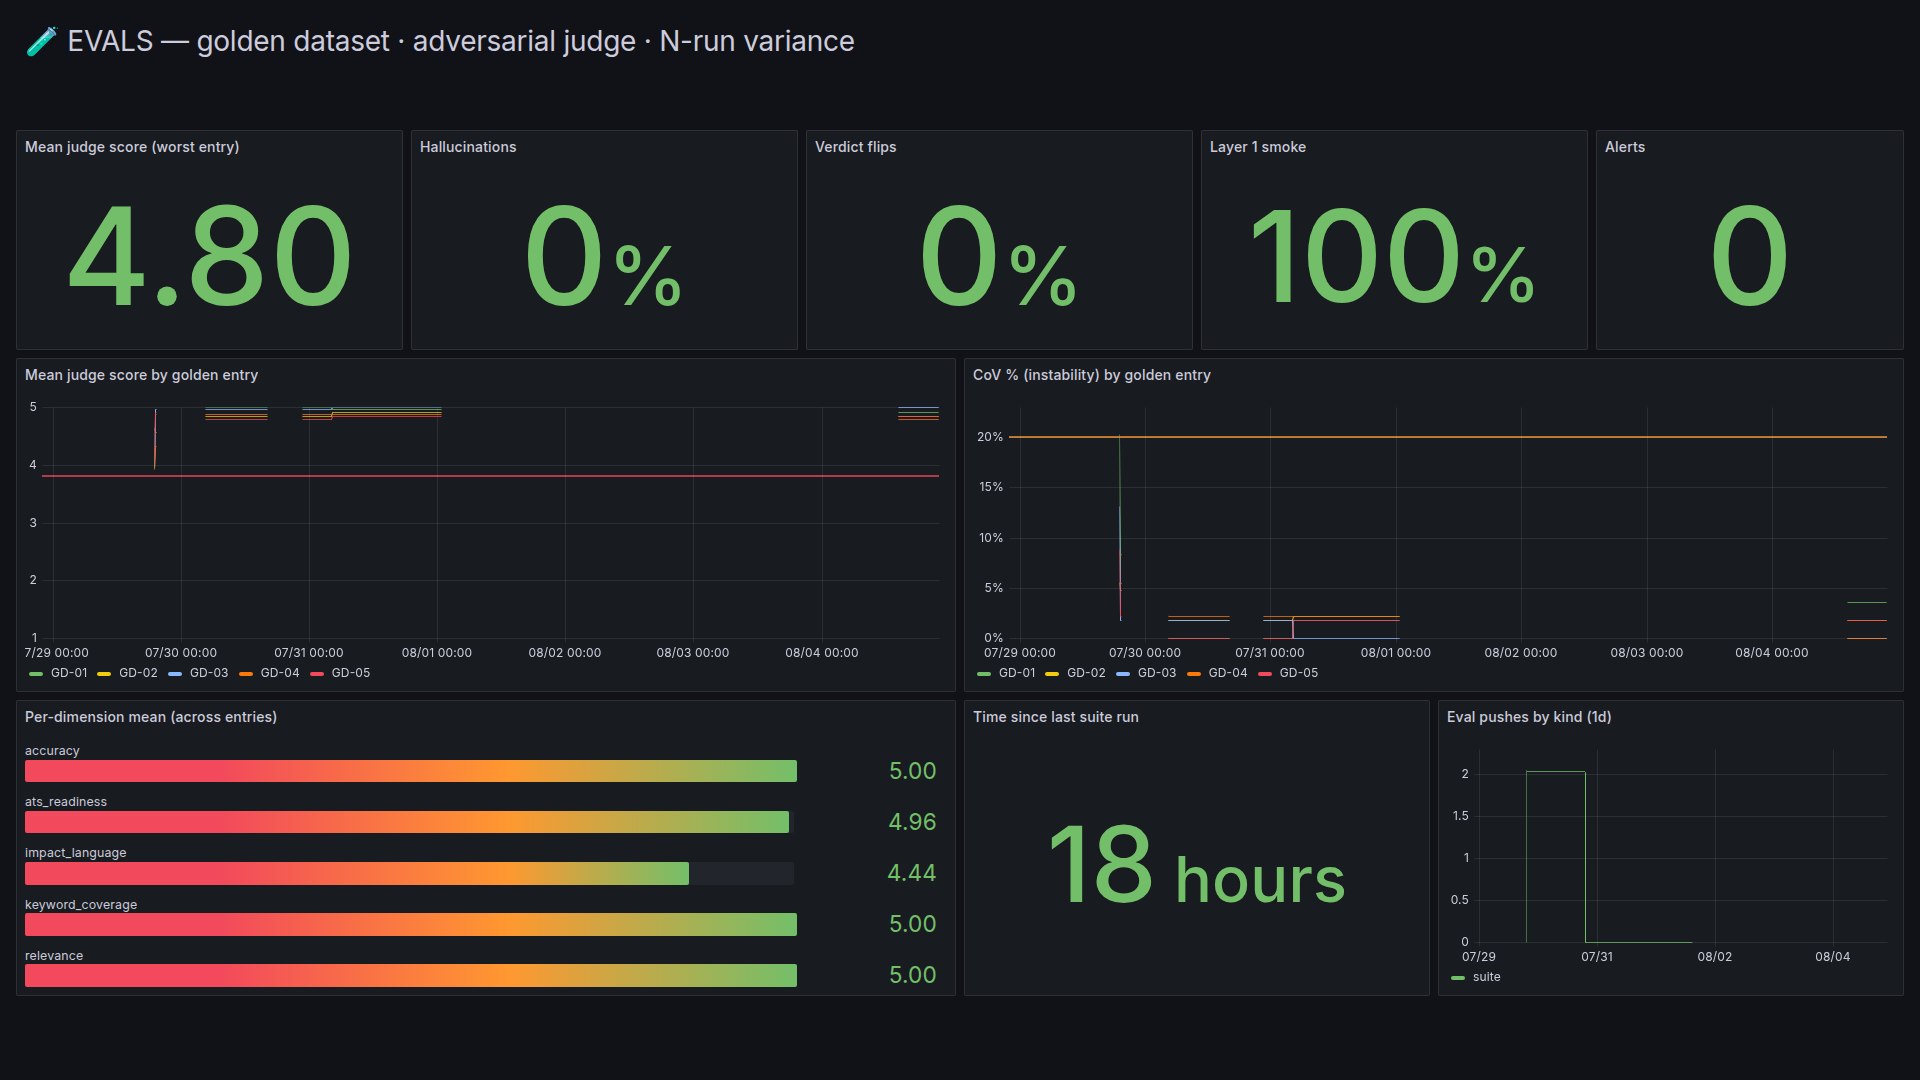
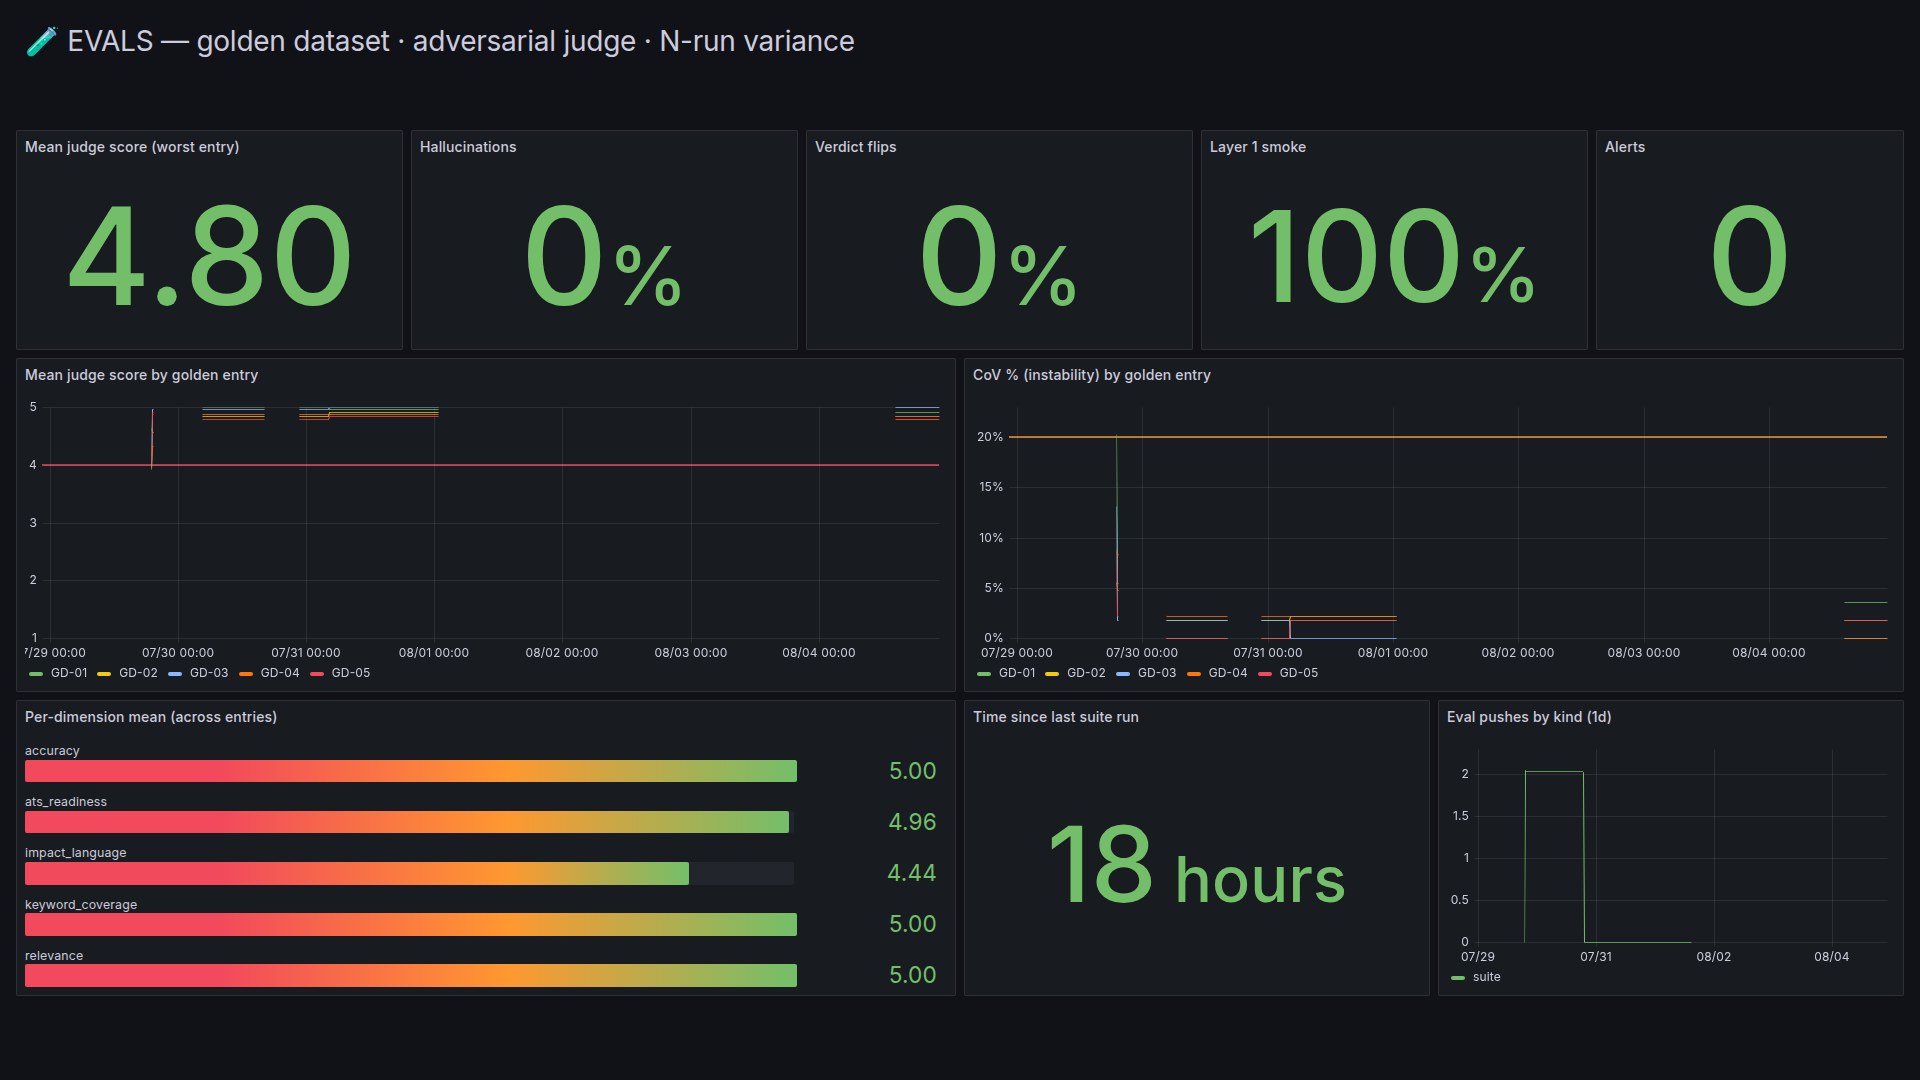
docs: pre-main refresh — 96-action tool surface, judge calibration in README, fresh evals kiosk shot
- README: tool surface 95→96, add missing certification row (8 actions);
  eval-framework paragraph now covers the planted-error fixture corpus,
  blind human-label calibration, judge/provenance cross-check, and the
  judge provider split; Unreleased bullet reflects tonight's merged work.
- docs/tools.md: certification 7→8 actions, add mark_submitted row
  (params verified against tools/consolidated.py facade signature);
  title count 95→96.
- CHANGELOG: Unreleased entries for the fixture corpus + blind-label
  calibration (llama3.1:8b + gpt-4.1-mini tables, scale finding stated
  as measured) and the thin non-job page scraper guard (#200/#201).
- Wallboard: kiosk-evals.png re-shot against the reprovisioned dashboard
  (post-#202 panels, fresh suite values).

diff --git a/CHANGELOG.md b/CHANGELOG.md
@@ -18,11 +18,13 @@ Versions through 1.4.0 predate this note; their section headings vary slightly.
 - **Deleted personal stories came back** -- `delete_personal_story` dropped the entry from the payload, but the save handler only ever inserted/updated, so the row survived in SQLite and reappeared on the next read (and, once these tables sync, would have been re-pushed to every peer forever). Stories and star stories now prune rows absent from the payload, matching `people`.
 - **Accepting a cover-letter edit now regenerates the canonical PDF** -- accept-cover-letter-edit rewrote the .txt (with a .bak backup) but never re-exported, leaving the document's PDF stale; the only fresh PDF was the review-phase preview of the .tmp draft. Accept now re-exports from the accepted text using the job's saved template/style (HTML or owner-only LaTeX, gated before any mutation), surfaces the result + a link in the done view, and reports export failures as warnings without failing the accept. The resume edit dialog was not affected (its one-shot flow already exported the edited copy).
 - **Wallboard relay predated the eval framework** -- the metrics-relay allowlist would never have forwarded `eval_*` gauges to the Pi; the relay also took the first responding port only. It now relays the eval families and merges per-family across ports, with `JOBCONTEXT_EXTRA_METRICS_PORTS` for servers the process scan can't see.
+- **Thin non-job pages no longer queue as jobs** -- a jina-cached snapshot of a placeholder page (320 chars) sailed through `scrape_job_url` and burned an assessment on "Example Domain". The scraper now rejects bodies under 1,500 chars that contain no job-posting vocabulary (responsibilities, qualifications, salary, apply, etc.); genuine short postings survive because they carry the vocabulary, and long pages are never gated. Regression tests cover the qa snapshot, a short genuine posting, and a long non-job page.
 
 ### Features
 
 - **Eval harness hardening — the gate asserts what tools actually print, the judge grades against the stated rubric, and the two hallucination checks finally meet** -- follow-through on the 2026-08-04 audit (`docs/evals-audit-2026-08-04.md`). Layer 1 smoke markers are now code-emitted literals covering every reachable tool state (empty, populated, filtered-empty) instead of length floors — an intermediate commit that asserted vocabulary the tools never print broke the gate to 50% and was caught by running the gate itself, which is why a replay test now re-checks every marker against recorded real responses in pytest. The judge prompt carries the Layer 2 rubric anchors and the explicit pass criterion; the verdict is derived in code from the parsed scores via `passes()`, with the model's own verdict kept leniently as `model_verdict` (calibration data, never a gate). Alert thresholds are sourced from the rubric so they cannot drift from the verdict: mean alert 3.8 → 4.0 and a new per-dimension floor alert (accuracy=2 with everything else 5 — a fluent resume that fabricates — previously produced a 4.4 mean, a green wallboard, and zero alerts). **Operator-visible: entries scoring 3.8–4.0 that previously showed amber now fire red — intended, not a regression.** Each eval run now joins the judge's hallucination list against the provenance gate's `generation_provenance` row (numeric claims only — the single territory both cover), bucketed as raw counts into both_flagged/both_clean/judge_only/provenance_only/no_record, where `no_record` means the comparison never happened (row missing or freshness unprovable behind a pre/post row-id fence) — deliberately not "both clean". The judge can run on a separate provider/model (`judge_provider`/`judge_model`, `JUDGE_LLM_PROVIDER`/`JUDGE_LLM_MODEL`, honored on every provider branch; results stamp the model that actually ran) — **configured but not yet enabled in prod, so the judge remains the generator's model until a judge provider is set**. The CLI judge path's 6K-char master truncation (the defect the first calibration run diagnosed, left in the CLI) now routes through the shared cap. Wallboard: provenance-agreement panels (no_record red at ≥1, no `or vector(0)` so a dead feed reads "No data") and threshold lines moved to match where alerts fire, on both the AKS and Pi dashboards.
 - **Provenance violations modal — every violation visible and actionable at generation time** -- the one-line verdict capped its list at six violations with an ellipsis, and none of them could be acted on; a local-LLM run that produced four violations showed a summary and stopped there. Now a generation that fails the truth gate auto-opens a modal listing **every** violation uncapped, read from the audit row the gate already persists (new `lib/provenance.latest_run()` + `GET /dashboard/pipeline/provenance/latest`, company/role-filtered so concurrent generations for other jobs can't cross-contaminate). Each violation carries a **Fix** button and the batch a **Fix all** — both pre-fill the existing AI-edit dialog with a structured instruction (rephrase from source material only, or remove; never invent replacements), and because the edit pipeline re-runs the gate, the fix loop ends in a fresh verdict. The result banner gains a **View violations** button to reopen the modal after dismissal.
+- **The judge is measured, not trusted — planted-error fixture corpus and blind human-label calibration** -- the remaining audit repairs. `evals/fixtures/` is a nine-variant planted-error corpus on a fully synthetic master resume (one clean control, one surgical corruption per variant, each documented in the manifest); `python -m evals fixtures -n N` judges each fixture directly against the synthetic master and reports per-class catch rates, with any flag on the clean control counted as a false positive. Blind human labels on the golden entries (scored before seeing judge output) calibrate the judge per dimension; both the local judge (`llama3.1:8b`) and the production-candidate judge (`gpt-4.1-mini`) have recorded tables in `docs/evals.md`. Headline finding, stated as measured: the local judge's contradiction-catching does not survive production-scale documents (fixtures 5/5, real 8–9KB references 0/21 — fixture catch rates are ceiling numbers), while gpt-4.1-mini made the first cross-document numeric-conflict catch at production scale and scores near-deterministically. That earns gpt-4.1-mini consideration as the judge-split target; it is not a conclusion that accuracy scoring is solved.
 - **Wallboard: two-screen rotation — local LLM + AKS production** -- the Pi kiosk playlist drops the Pi-health pages (still provisioned, just out of rotation) in favor of exactly two screens: a new `kiosk-ollama` dashboard (Ollama status and model-in-VRAM, GPU utilization/VRAM/temperature, the desktop app's relayed `llm_*` call/token/latency series, and the provenance gate's pass rate, runs, and violations) alternating with the existing AKS production view. Ollama exposes no native `/metrics` and the desktop sidecar binds 127.0.0.1 on an OS-assigned port, so a new workstation exporter (`scripts/ollama-exporter.py`, user systemd unit on :9105) polls `/api/ps` + `nvidia-smi` and relays the sidecar's series, rediscovering its port per scrape and caching the last good relay — the sidecar's `/metrics` stalls while a generation blocks its event loop, exactly when the board matters. Metric paths ride the static direct-link IPs and the kiosk URL is now `localhost`, both immune to the DHCP-lease changes that stranded the kiosk before (2026-07-15); the AKS federation tunnel, found crash-looping on a dead bind address (16k restarts), is rebound and verified through a full Pi reboot.
 
 - **Follow-up queue sanity** -- the People follow-up queue was "status ∈ {drafted, sent, follow-up}, forever": a ghosted recruiter stayed a suggested follow-up for months. The queue now (1) times out threads untouched for `followup_timeout_days` (default 21) into a collapsed "Gone cold" bucket instead of the to-do list, (2) excludes closed-thread tags (`unresponsive`, `closed-loop`, `do-not-contact`, `dormant`, `archived`), and (3) supports per-contact dismissal (✕ on the card; `POST /dashboard/people/dismiss-followup`, restorable). Dismissals live in a per-user overlay (`lib/dismissals.py`, `dismissals.json`) because the queue is a derived view with no row to delete.

diff --git a/README.md b/README.md
@@ -156,7 +156,7 @@ Themes: **Navy** (default) · **Slate** · **Forest** · **Warm** · **Classic**
 
 ## The Tool Surface
 
-12 consolidated domain tools, 95 actions. Each tool takes an `action` parameter; its docstring documents every action's required and optional parameters. Full reference with per-action tables: **[docs/tools.md](docs/tools.md)**.
+12 consolidated domain tools, 96 actions. Each tool takes an `action` parameter; its docstring documents every action's required and optional parameters. Full reference with per-action tables: **[docs/tools.md](docs/tools.md)**.
 
 | Tool | Actions | Covers |
 |---|---|---|
@@ -170,6 +170,7 @@ Themes: **Navy** (default) · **Slate** · **Forest** · **Warm** · **Classic**
 | `wellbeing` | 7 | Mood/energy check-ins, Oura readiness, HBDI profile |
 | `brand` | 7 | LinkedIn post pipeline + metrics, GitHub/portfolio stats, skill scans |
 | `insights` | 7 | Daily/weekly digests, session context, rejection funnel, comp comparison |
+| `certification` | 8 | Weekly work-search certification reports, employer directory, portal-ready exports |
 | `workspace` | 2 | Workspace diagnosis and zero-manual-setup creation |
 
 A coverage test guarantees every capability of the historical 88-function surface is reachable through the facades; `JOBCONTEXT_LEGACY_TOOLS=1` restores the per-function surface if a client needs it.
@@ -215,7 +216,7 @@ Every tenant's data lives under `DATA_FOLDER/users/{oid}` with per-request conte
 
 **Provenance gate** — a deterministic truth check on every generated document: numeric claims (percentages, dollar amounts, multipliers, years) must trace to the master resume, stories, or JD, or the run is flagged — an LLM reviewer checks quality, this checks *truth*. Verdicts surface in the dashboard (violations modal) and Grafana; in-place master-resume edits are audit-logged so an agent can't legalize a fabricated claim by editing the source. Details: [docs/generation.md](docs/generation.md).
 
-**Eval framework** — three layers in [`evals/`](evals/): declarative tool evals through the exact MCP dispatch path (a <95% smoke pass rate blocks deploys in CI), scoring rubrics with hard thresholds, and an adversarial LLM-as-judge over a committed golden dataset with N-run variance analysis (hallucination rate, verdict flips, baseline deltas). Runs from the CLI, or server-side via the control plane on a nightly schedule. Details: [docs/evals.md](docs/evals.md).
+**Eval framework** — three layers in [`evals/`](evals/): declarative tool evals through the exact MCP dispatch path (a <95% smoke pass rate blocks deploys in CI), scoring rubrics with hard thresholds, and an adversarial LLM-as-judge over a committed golden dataset with N-run variance analysis (hallucination rate, verdict flips, baseline deltas). The judge itself is measured, not trusted: a planted-error fixture corpus records per-class catch rates against a synthetic master resume, blind human labels on the golden entries calibrate judge scores per dimension, and every run cross-checks the judge's hallucination list against the provenance gate's record. The judge can run on a separate provider/model from the generator. Runs from the CLI, or server-side via the control plane on a nightly schedule. Details: [docs/evals.md](docs/evals.md).
 
 **Observability** — a dependency-free metrics registry exposes Prometheus counters for requests, LLM calls/tokens, work items, evals, and provenance verdicts at `/metrics`; dashboards-as-code under [`k8s/monitoring/`](k8s/monitoring/) render them on an always-on wallboard (a Raspberry Pi running k3s + Prometheus + Grafana, federating the AKS cluster and scraping the workstation's local-LLM exporter).
 
@@ -310,7 +311,7 @@ Full details in the [CHANGELOG](CHANGELOG.md).
 - **v1.3.x** — Desktop ⇄ cloud sync (journal-based, LWW, file manifests), workspace export/import, per-user API keys, Oura OAuth + encryption at rest.
 - **v1.2** — jobContext rebrand, React SPA dashboard, QA environment, desktop app GA (signed macOS/Windows/Linux builds, auto-update).
 - **v1.0–v1.1** — Multi-tenant AKS with Entra ID, per-user isolation, OAuth proxy for remote MCP clients, control plane P0, Prometheus/Grafana monitoring, mobile companion app.
-- **Unreleased** — Three-layer eval framework with adversarial LLM-as-judge, server-side nightly eval runs, CI eval smoke gate, wallboard GPU rotation, `mcp<2` pin.
+- **Unreleased** — Three-layer eval framework with adversarial LLM-as-judge, planted-error fixture corpus with measured per-class catch rates, blind human-label judge calibration (local + production-candidate judge tables), judge/generator model split, judge ⇄ provenance agreement tracking on the wallboard, server-side nightly eval runs, CI eval smoke gate, scraper guards against non-job pages, wallboard GPU rotation, `mcp<2` pin.
 
 ### What's next
 

diff --git a/docs/tools.md b/docs/tools.md
@@ -1,4 +1,4 @@
-# MCP Tool Reference — 12 Domain Tools, 95 Actions
+# MCP Tool Reference — 12 Domain Tools, 96 Actions
 
 The default MCP surface is **12 consolidated domain tools** (`tools/consolidated.py`). Each takes an `action` parameter plus that action's arguments; the generated docstring on every tool lists each action's required and optional parameters. Rationale: MCP clients budget tools (VS Code caps 128 across every server), and 85 near-duplicate names both hog that budget and give the model look-alike choices to fumble.
 
@@ -189,7 +189,7 @@ Workspace setup: check what's present/missing, and create or complete the worksp
 
 `workspace(action="setup")` creates the whole directory tree, seeds data files, and writes config — no manual JSON editing required.
 
-## certification — 7 actions
+## certification — 8 actions
 
 Weekly work-search certification: frozen weekly reports derived from logged events, employer address directory, portal-ready exports, and per-state rules.
 
@@ -199,6 +199,7 @@ Weekly work-search certification: frozen weekly reports derived from logged even
 | `list_reports` | History of frozen weekly reports | — | `limit` |
 | `export` | Render a frozen report for the claim portal | `report_id` | `format` (csv, portal_text, pdf, docx) |
 | `swap_entry` | Replace an entry with an alternate (new version) | `report_id`, `out_entry` | `in_entry` |
+| `mark_submitted` | Stamp a frozen report as the version filed with the state | `report_id` | `confirmation_number` |
 | `employer_lookup` | Read/refresh one employer directory row | `name` | — |
 | `employer_override` | Manually correct an employer (locks the row) | `name`, `fields` | — |
 | `state_profile` | Read/update the state's certification rules | — | `mode`, `state`, `min_activities_per_week`, `week_ends_on`, `accepted_activity_kinds`, `counts_inbound_recruiter`, `counts_materials_prep` |
